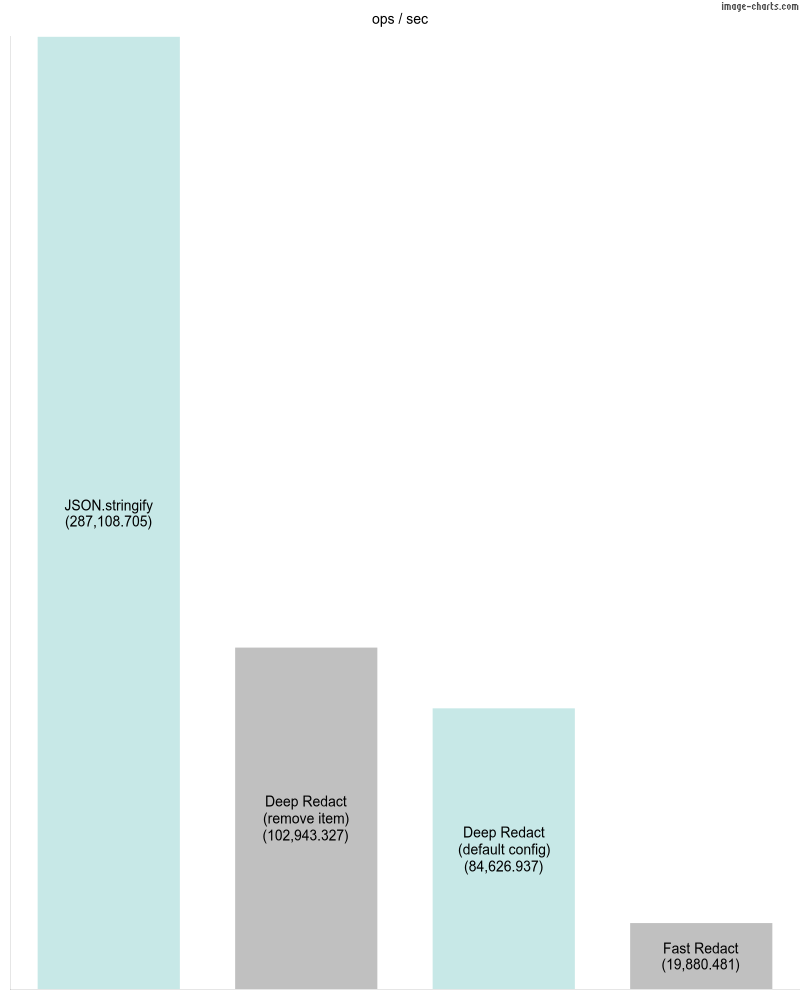
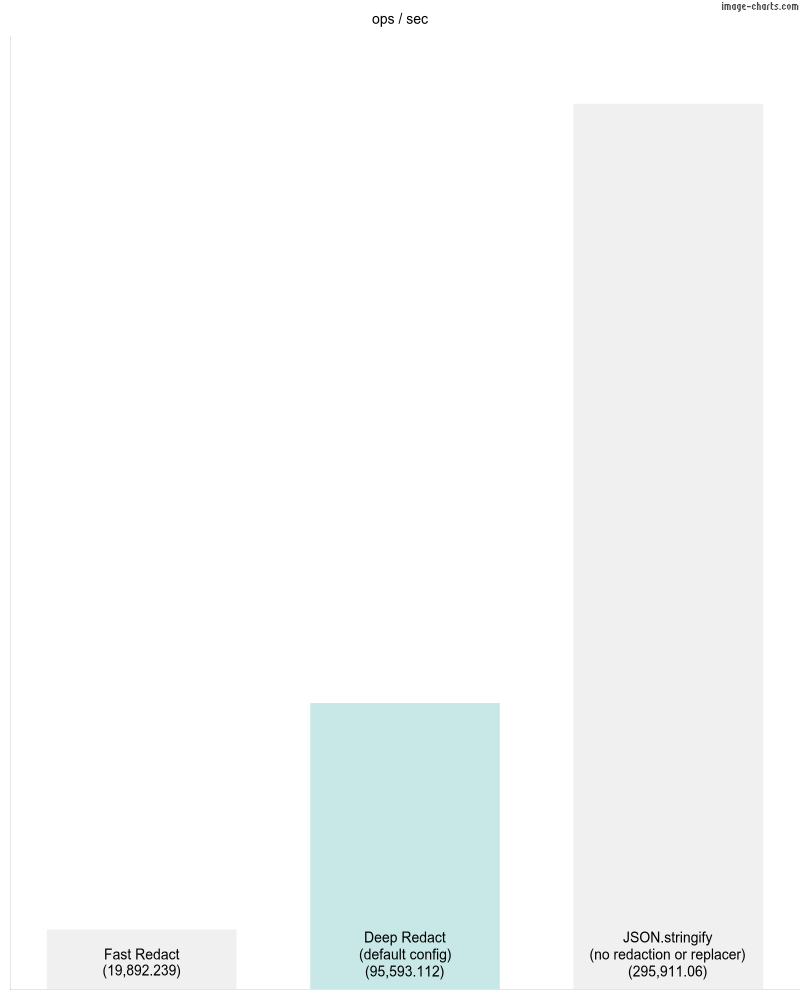
CHORE: update README

Changed region(s): [[0.0312, 0.031, 0.25, 0.993], [0.2812, 0.6206, 0.7188, 0.993], [0.75, 0.8999, 0.9688, 0.993]]

diff --git a/scripts/mainOptions.ts b/scripts/mainOptions.ts
@@ -43,7 +43,7 @@ const tableData: TableData = [
   },
   {
     key: 'retainStructure',
-    description: 'Determines whether or not keep all nested values of a key that is going to be redacted.',
+    description: 'Determines whether or not keep all nested values of a key that is going to be redacted. Circular references are always removed.',
     type: 'boolean',
     options: '',
     default: 'false',
@@ -71,6 +71,22 @@ const tableData: TableData = [
     type: 'array',
     options: 'Array<\'string\'￨\'number\'￨\'bigint\'￨\'boolean\'￨\'symbol\'￨\'undefined\'￨\'object\'￨\'function\'>',
     default: '[\'string\']',
+    required: 'N',
+  },
+  {
+    key: 'serialise',
+    description: 'Determines whether or not to serialise the object after redacting. Typical use cases for this are when you want to send it over the network or save to a file, both of which are common use cases for redacting sensitive information.',
+    type: 'boolean',
+    options: '',
+    default: 'true',
+    required: 'N',
+  },
+  {
+    key: 'unsupportedTransformer',
+    description: 'When an unsafe value is encountered or a value that cannot be serialised. By default, this function will transform an unsupported value `Unsupported` object. BigInt values are converted a string. Dates are returned using their own `toISOString` method. Regular expressions are returned as objects with their `source` and `flags` values. Errors are converted objects. This is useful when you have a custom class that you would like to redact. For safety reasons, you should always transform a BigInt to avoid JSON.stringify throwing an error.',
+    type: '(value: unknown) => unknown',
+    options: '',
+    default: 'DeepRedact.transformUnsupported',
     required: 'N',
   },
 ]

diff --git a/scripts/benchChart.ts b/scripts/benchChart.ts
@@ -16,27 +16,26 @@ export const updateBenchChart = () => {
     .filter(({ name }) => {
       return [
         'JSON.stringify, single object',
-        'remove item, single object',
-        'default config, single object',
+        'DeepRedact, default config, single object',
         'fast redact, single object',
       ].includes(name)
     })
-  benchmarkData.sort((a, b) => b.hz - a.hz)
+  benchmarkData.sort((a, b) => a.hz - b.hz)
 
   const comparison = benchmarkData.map(({ name, hz }) => ({
     rate: hz / benchmarkData[0].hz,
     name: name
-      .replace('JSON.stringify, single object', `JSON.stringify\n(${Intl.NumberFormat().format(hz)})`)
-      .replace('remove item, single object', `Deep Redact\n(remove item)\n(${Intl.NumberFormat().format(hz)})`)
-      .replace('default config, single object', `Deep Redact\n(default config)\n(${Intl.NumberFormat().format(hz)})`)
+      .replace('JSON.stringify, single object', `JSON.stringify\n(no redaction or replacer)\n(${Intl.NumberFormat().format(hz)})`)
+      .replace('DeepRedact, default config, single object', `Deep Redact\n(default config)\n(${Intl.NumberFormat().format(hz)})`)
       .replace('fast redact, single object', `Fast Redact\n(${Intl.NumberFormat().format(hz)})`),
   }))
 
   new ChartJSImage()
     .cht('bvs')
-    .chco('43B3AE45|c0c0c0')
+    .chco('F0F0F0|43B3AE45|F0F0F0')
     .chd(`t:${comparison.map(({ rate }) => rate).join(',')}`)
     .chl(comparison.map(({ name }) => name).join('|'))
+    .chlps('align,top|anchor,start|offset,10')
     .chtt('ops / sec')
     .chs('800x999')
     .toDataURI()

diff --git a/scripts/benchTable.ts b/scripts/benchTable.ts
@@ -5,7 +5,8 @@ interface BenchmarkInput {
   name: string,
   hz: number,
   sampleCount: number,
-  moe: number
+  moe: number,
+  period: number,
 }
 
 const benchmarkData: BenchmarkInput[] = benchmarkJson.files[0].groups[0].benchmarks
@@ -16,9 +17,11 @@ const tableData: TableData = benchmarkData.map(({
   hz,
   sampleCount,
   moe,
+  period,
 }) => ({
   scenario: name,
   'ops / sec': Number(hz.toFixed(2)),
+  'op duration (ms)': Number(period.toFixed(10)),
   'margin of error': Number(moe.toFixed(5)),
   'sample count': sampleCount,
 }))

diff --git a/test/setup/blacklist.ts b/test/setup/blacklist.ts
@@ -1,6 +1,6 @@
-import { RedactionConfig } from '../../src'
+import type { DeepRedactConfig } from '../../src'
 
-export type Blacklist = RedactionConfig['blacklistedKeys']
+export type Blacklist = DeepRedactConfig['blacklistedKeys']
 
 export const blacklistedKeys: Blacklist = [
   'firstName',

diff --git a/scripts/blacklistKeyConfig.ts b/scripts/blacklistKeyConfig.ts
@@ -3,7 +3,7 @@ import { renderTable, type TableData } from './_renderTable'
 const tableData: TableData = [
   {
     key: 'key',
-    type: 'string',
+    type: 'string | RegExp',
     default: '',
     required: 'Y',
   },

diff --git a/README.md b/README.md
@@ -17,9 +17,9 @@ library outside of your global logging/error-reporting libraries.</h4>
 
 ```typescript
 // ./src/example.ts
-import {Redaction} from 'deep-redact';
+import {DeepRedact} from 'deep-redact';
 
-const redaction = new Redaction({
+const redaction = new DeepRedact({
   replacement: '*',
   replaceStringByLength: true,
   blacklistedKeys: ['password'],
@@ -48,18 +48,22 @@ redaction.redact(obj) // { password: '**********************************', cardN
 | stringTests | Array of regular expressions to perform against string values, whether that value is a flat string or nested within an object. | array | RegExp[] | [] | N |
 | fuzzyKeyMatch | Loosely compare key names by checking if the key name of your unredacted object is included anywhere within the name of your blacklisted key. For example, is "pass" (your key) included in "password" (from config). | boolean |  | false | N |
 | caseSensitiveKeyMatch | Loosely compare key names by normalising the strings. This involves removing non-word characters and transforms the string to lowercase. This means you never have to worry having to list duplicate keys in different formats such as snake_case, camelCase, PascalCase or any other case. | boolean |  | true | N |
-| retainStructure | Determines whether or not keep all nested values of a key that is going to be redacted. | boolean |  | false | N |
+| remove | Determines whether or not to remove the key from the object when it is redacted. | boolean |  | false | N |
+| retainStructure | Determines whether or not keep all nested values of a key that is going to be redacted. Circular references are always removed. | boolean |  | false | N |
 | replacement | When a value is going to be redacted, what would you like to replace it with? | string |  | [REDACTED] | N |
 | replaceStringByLength | When a string value is going to be replaced, optionally replace it by repeating the `replacement` to match the length of the value. For example, if `replaceStringByLength` were set to `true` and `replacement` was set to "x", then redacting "secret" would return "xxxxxx". This is sometimes useful for debugging purposes, although it may be less secure as it could give hints to the original value. | boolean |  | false | N |
 | types | JS types (values of `typeof` keyword). Only values with a typeof equal to `string`, `number`, `bigint`, `boolean` or `object` may be redacted. The other types are only listed as options to keep TypeScript happy, so you never need to list them. | array | Array<'string'￨'number'￨'bigint'￨'boolean'￨'symbol'￨'undefined'￨'object'￨'function'> | ['string'] | N |
+| serialise | Determines whether or not to serialise the object after redacting. Typical use cases for this are when you want to send it over the network or save to a file, both of which are common use cases for redacting sensitive information. | boolean |  | true | N |
+| unsupportedTransformer | When an unsafe value is encountered or a value that cannot be serialised. By default, this function will transform an unsupported value `Unsupported` object. BigInt values are converted a string. Dates are returned using their own `toISOString` method. Regular expressions are returned as objects with their `source` and `flags` values. Errors are converted objects. This is useful when you have a custom class that you would like to redact. For safety reasons, you should always transform a BigInt to avoid JSON.stringify throwing an error. | (value: unknown) => unknown |  | DeepRedact.transformUnsupported | N |
 
 ### BlacklistKeyConfig
 
 | key | type | default | required |
 | --- | --- | --- | --- |
-| key | string |  | Y |
+| key | string | RegExp |  | Y |
 | fuzzyKeyMatch | boolean | Main options `fuzzyKeyMatch` | N |
 | caseSensitiveKeyMatch | boolean | Main options `caseSensitiveKeyMatch` | N |
+| remove | boolean | Main options `remove` | N |
 | retainStructure | boolean | Main options `retainStructure` | N |
 
 ### Benchmark
@@ -73,18 +77,18 @@ library available. Neither JSON.stringify nor fast-redact offer the same level o
 
 ![Benchmark](./benchmark.png)
 
-| scenario | ops / sec | margin of error | sample count |
-| --- | --- | --- | --- |
-| JSON.stringify, single object | 287108.7 | 0.00002 | 143555 |
-| remove item, single object | 102943.33 | 0.00004 | 51472 |
-| case insensitive matching, single object | 85863.81 | 0.00005 | 42932 |
-| fuzzy and case insensitive matching, single object | 85524.15 | 0.00005 | 42763 |
-| retain structure, single object | 85500.88 | 0.00005 | 42751 |
-| default config, single object | 84626.94 | 0.00012 | 42314 |
-| replace string by length, single object | 81961.66 | 0.00007 | 40981 |
-| fuzzy matching, single object | 81756.69 | 0.00008 | 40879 |
-| config per key, single object | 66679.53 | 0.00006 | 33340 |
-| fast redact, single object | 19880.48 | 0.00022 | 9941 |
-| JSON.stringify, 1000 objects | 378.3 | 0.01761 | 190 |
-| default config, 1000 objects | 102.96 | 0.05863 | 52 |
-| fast redact, 1000 objects | 73.82 | 0.1877 | 37 |
+| scenario | ops / sec | op duration (ms) | margin of error | sample count |
+| --- | --- | --- | --- | --- |
+| JSON.stringify, single object | 295911.06 | 0.0033793938 | 0.00002 | 147956 |
+| DeepRedact, default config, single object | 95593.11 | 0.0104610048 | 0.00005 | 47797 |
+| DeepRedact, remove item, single object | 92531.99 | 0.0108070737 | 0.00005 | 46266 |
+| DeepRedact, fuzzy and case insensitive matching, single object | 90517.53 | 0.0110475833 | 0.00005 | 45259 |
+| DeepRedact, case insensitive matching, single object | 90109.12 | 0.0110976562 | 0.00007 | 45055 |
+| DeepRedact, fuzzy matching, single object | 89621.55 | 0.0111580312 | 0.00014 | 44811 |
+| DeepRedact, replace string by length, single object | 85194.47 | 0.0117378506 | 0.00005 | 42598 |
+| DeepRedact, config per key, single object | 71293.68 | 0.014026489 | 0.00008 | 35647 |
+| DeepRedact, retain structure, single object | 67052.16 | 0.0149137623 | 0.00021 | 33527 |
+| fast redact, single object | 19892.24 | 0.0502708627 | 0.00023 | 9947 |
+| DeepRedact, default config, 1000 objects | 13558.45 | 0.0737547209 | 0.00039 | 6780 |
+| JSON.stringify, 1000 objects | 423.19 | 2.3629901509 | 0.00811 | 212 |
+| fast redact, 1000 objects | 76.35 | 13.0976421538 | 0.2063 | 39 |
